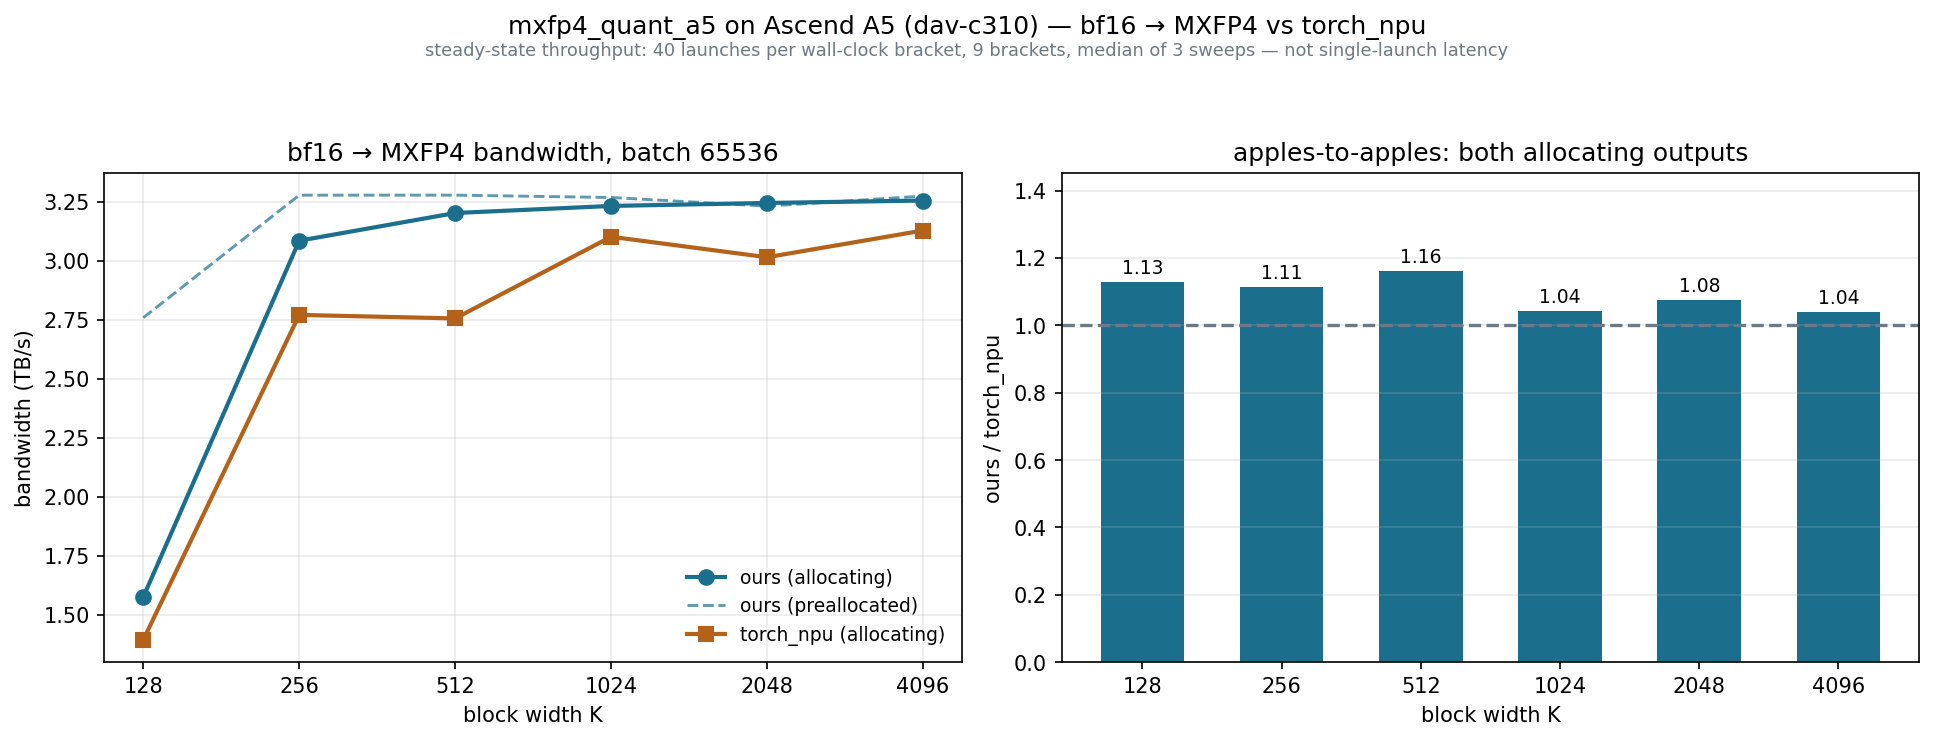
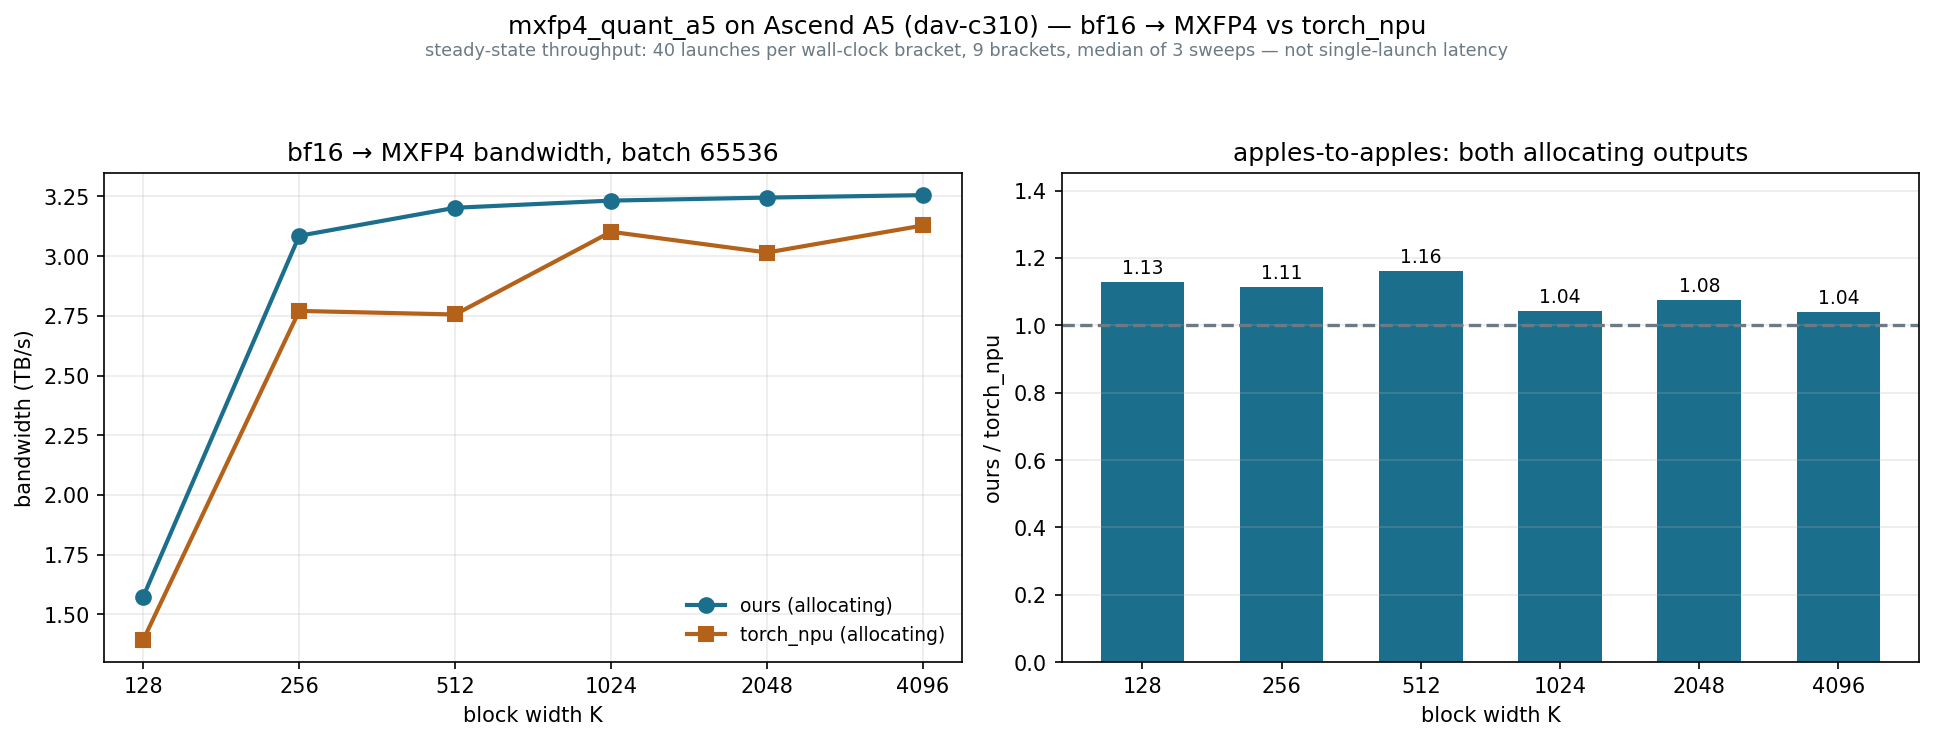
mxfp4_quant_a5: drop the preallocated line, leaving one comparison
The figure now draws only the apples-to-apples pair: both contenders allocating
their outputs. The preallocated row is a real number and is the one you get
integrating this with persistent buffers, but on the same axis as an allocating
vendor it invites a comparison it is not entitled to.

Still measured and still in the CSV, along with the copy row.

Claude-Session: https://claude.ai/code/session_016qbbp2Kjzv1AhUkU6w1mi4

diff --git a/mxfp4_quant_a5/plot_mxfp4_bench_a5.py b/mxfp4_quant_a5/plot_mxfp4_bench_a5.py
@@ -6,15 +6,21 @@ Reads the CSVs from benchmark.py and renders two panels:
   * achieved bandwidth vs block width K, and
   * the apples-to-apples ratio (both contenders allocating their outputs).
 
-Only the allocating rows are compared. torch_npu allocates inherently, so pitting
-it against a preallocated kernel would credit us with an allocation we skipped;
-the preallocated row is drawn as a dashed reference, not as the comparison.
+The figure draws exactly one comparison: both contenders allocating their outputs.
+torch_npu allocates inherently, so that is the only apples-to-apples pair.
 
-benchmark.py also measures a device-to-device copy, but it is deliberately NOT
-drawn: it moves 4 B/elem where the quantizers move 2.53, and it rewrites one
-destination buffer, so at small K that buffer stays resident and the curve runs
-above HBM. On a shared axis it reads as a broken baseline rather than a roofline.
-The row is still in the CSV, and benchmark.py uses it as the sanity bound that
+benchmark.py measures two more rows that are deliberately NOT drawn, because on a
+shared axis each one misleads rather than informs:
+
+  * the kernel with preallocated outputs -- a real number, and the one you get
+    integrating this with persistent buffers, but on the same axis it invites a
+    comparison against an allocating vendor that it is not entitled to;
+  * a device-to-device copy -- it moves 4 B/elem where the quantizers move 2.53,
+    and it rewrites one destination buffer, so at small K that buffer stays
+    resident and the curve runs above HBM, reading as a broken baseline rather
+    than a roofline.
+
+Both stay in the CSV, and benchmark.py uses the copy as the sanity bound that
 catches an impossible rate.
 
 Timing is a saturated queue (N launches between two synchronizes, wall clock / N),
@@ -74,7 +80,6 @@ def series(rows, contender, allocates):
 
 def draw_bandwidth(axis, rows):
     ks, ours = series(rows, "ours", 1)
-    _, ours_pre = series(rows, "ours", 0)
     kv, vendor = series(rows, "torch_npu", 1)
     axis.plot(
         ks,
@@ -85,16 +90,6 @@ def draw_bandwidth(axis, rows):
         ms=7,
         label="ours (allocating)",
     )
-    if ours_pre:
-        axis.plot(
-            ks,
-            [v / 1000 for v in ours_pre],
-            "--",
-            color=OURS,
-            lw=1.4,
-            alpha=0.7,
-            label="ours (preallocated)",
-        )
     if vendor:
         axis.plot(
             kv,
